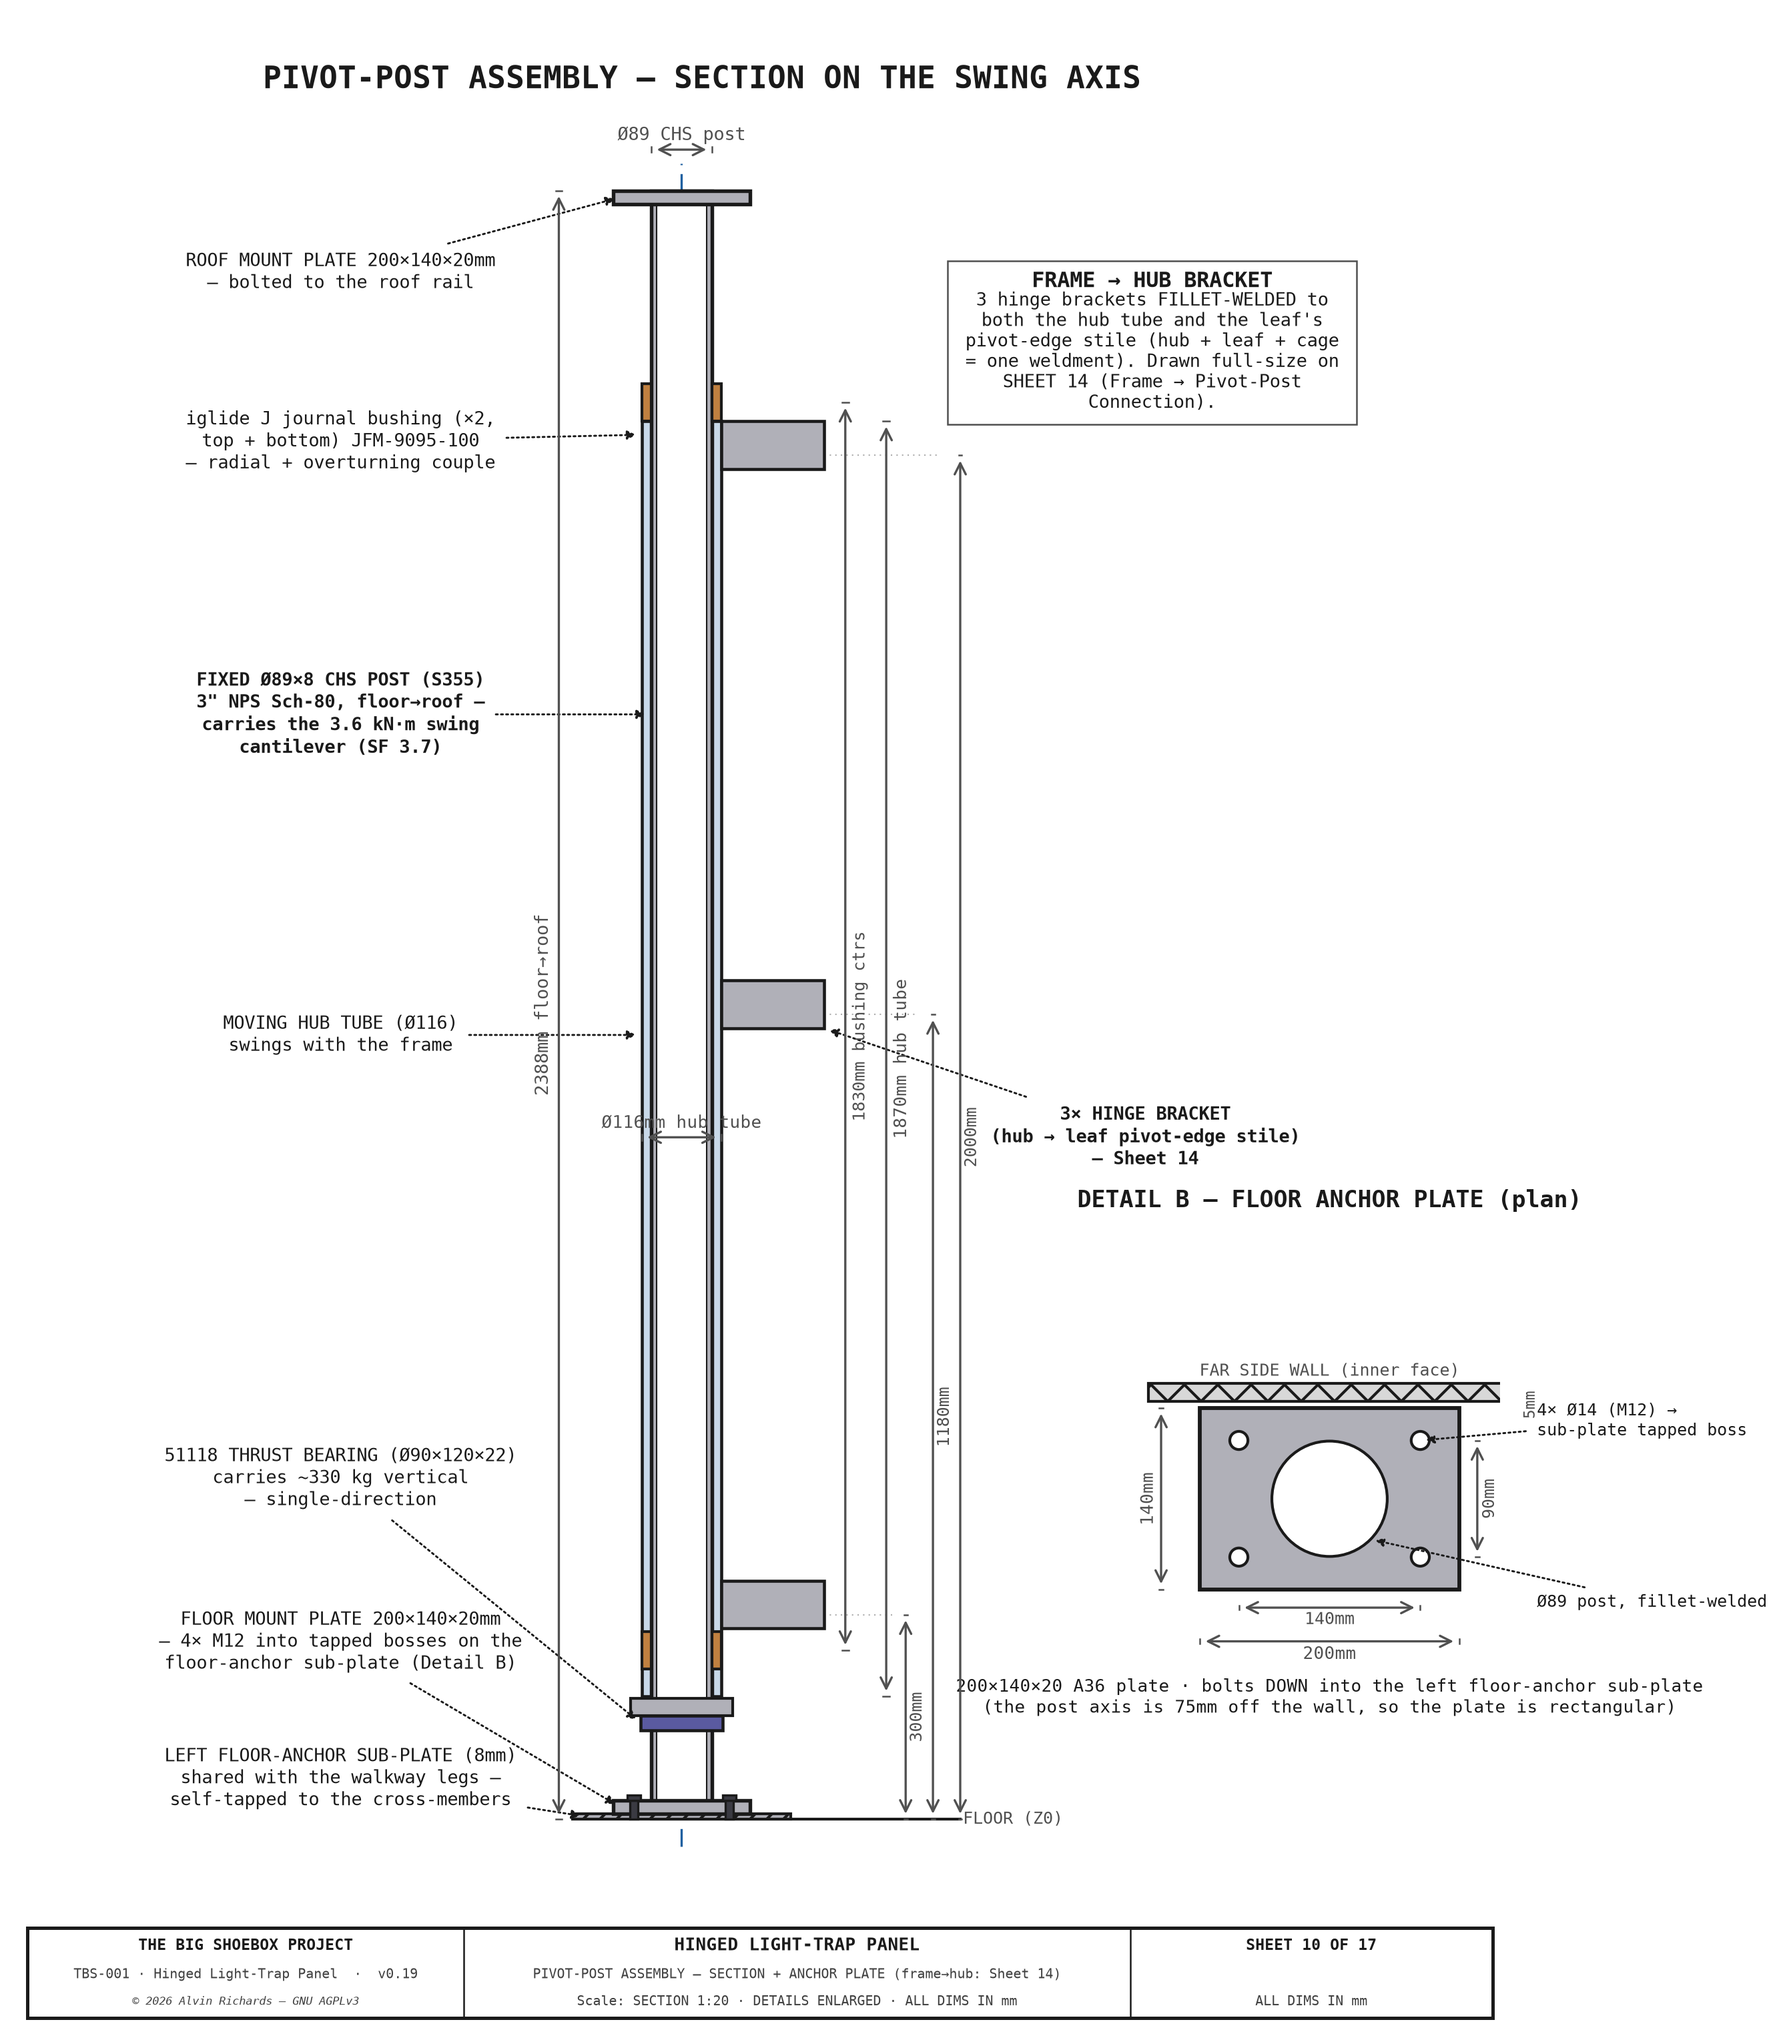
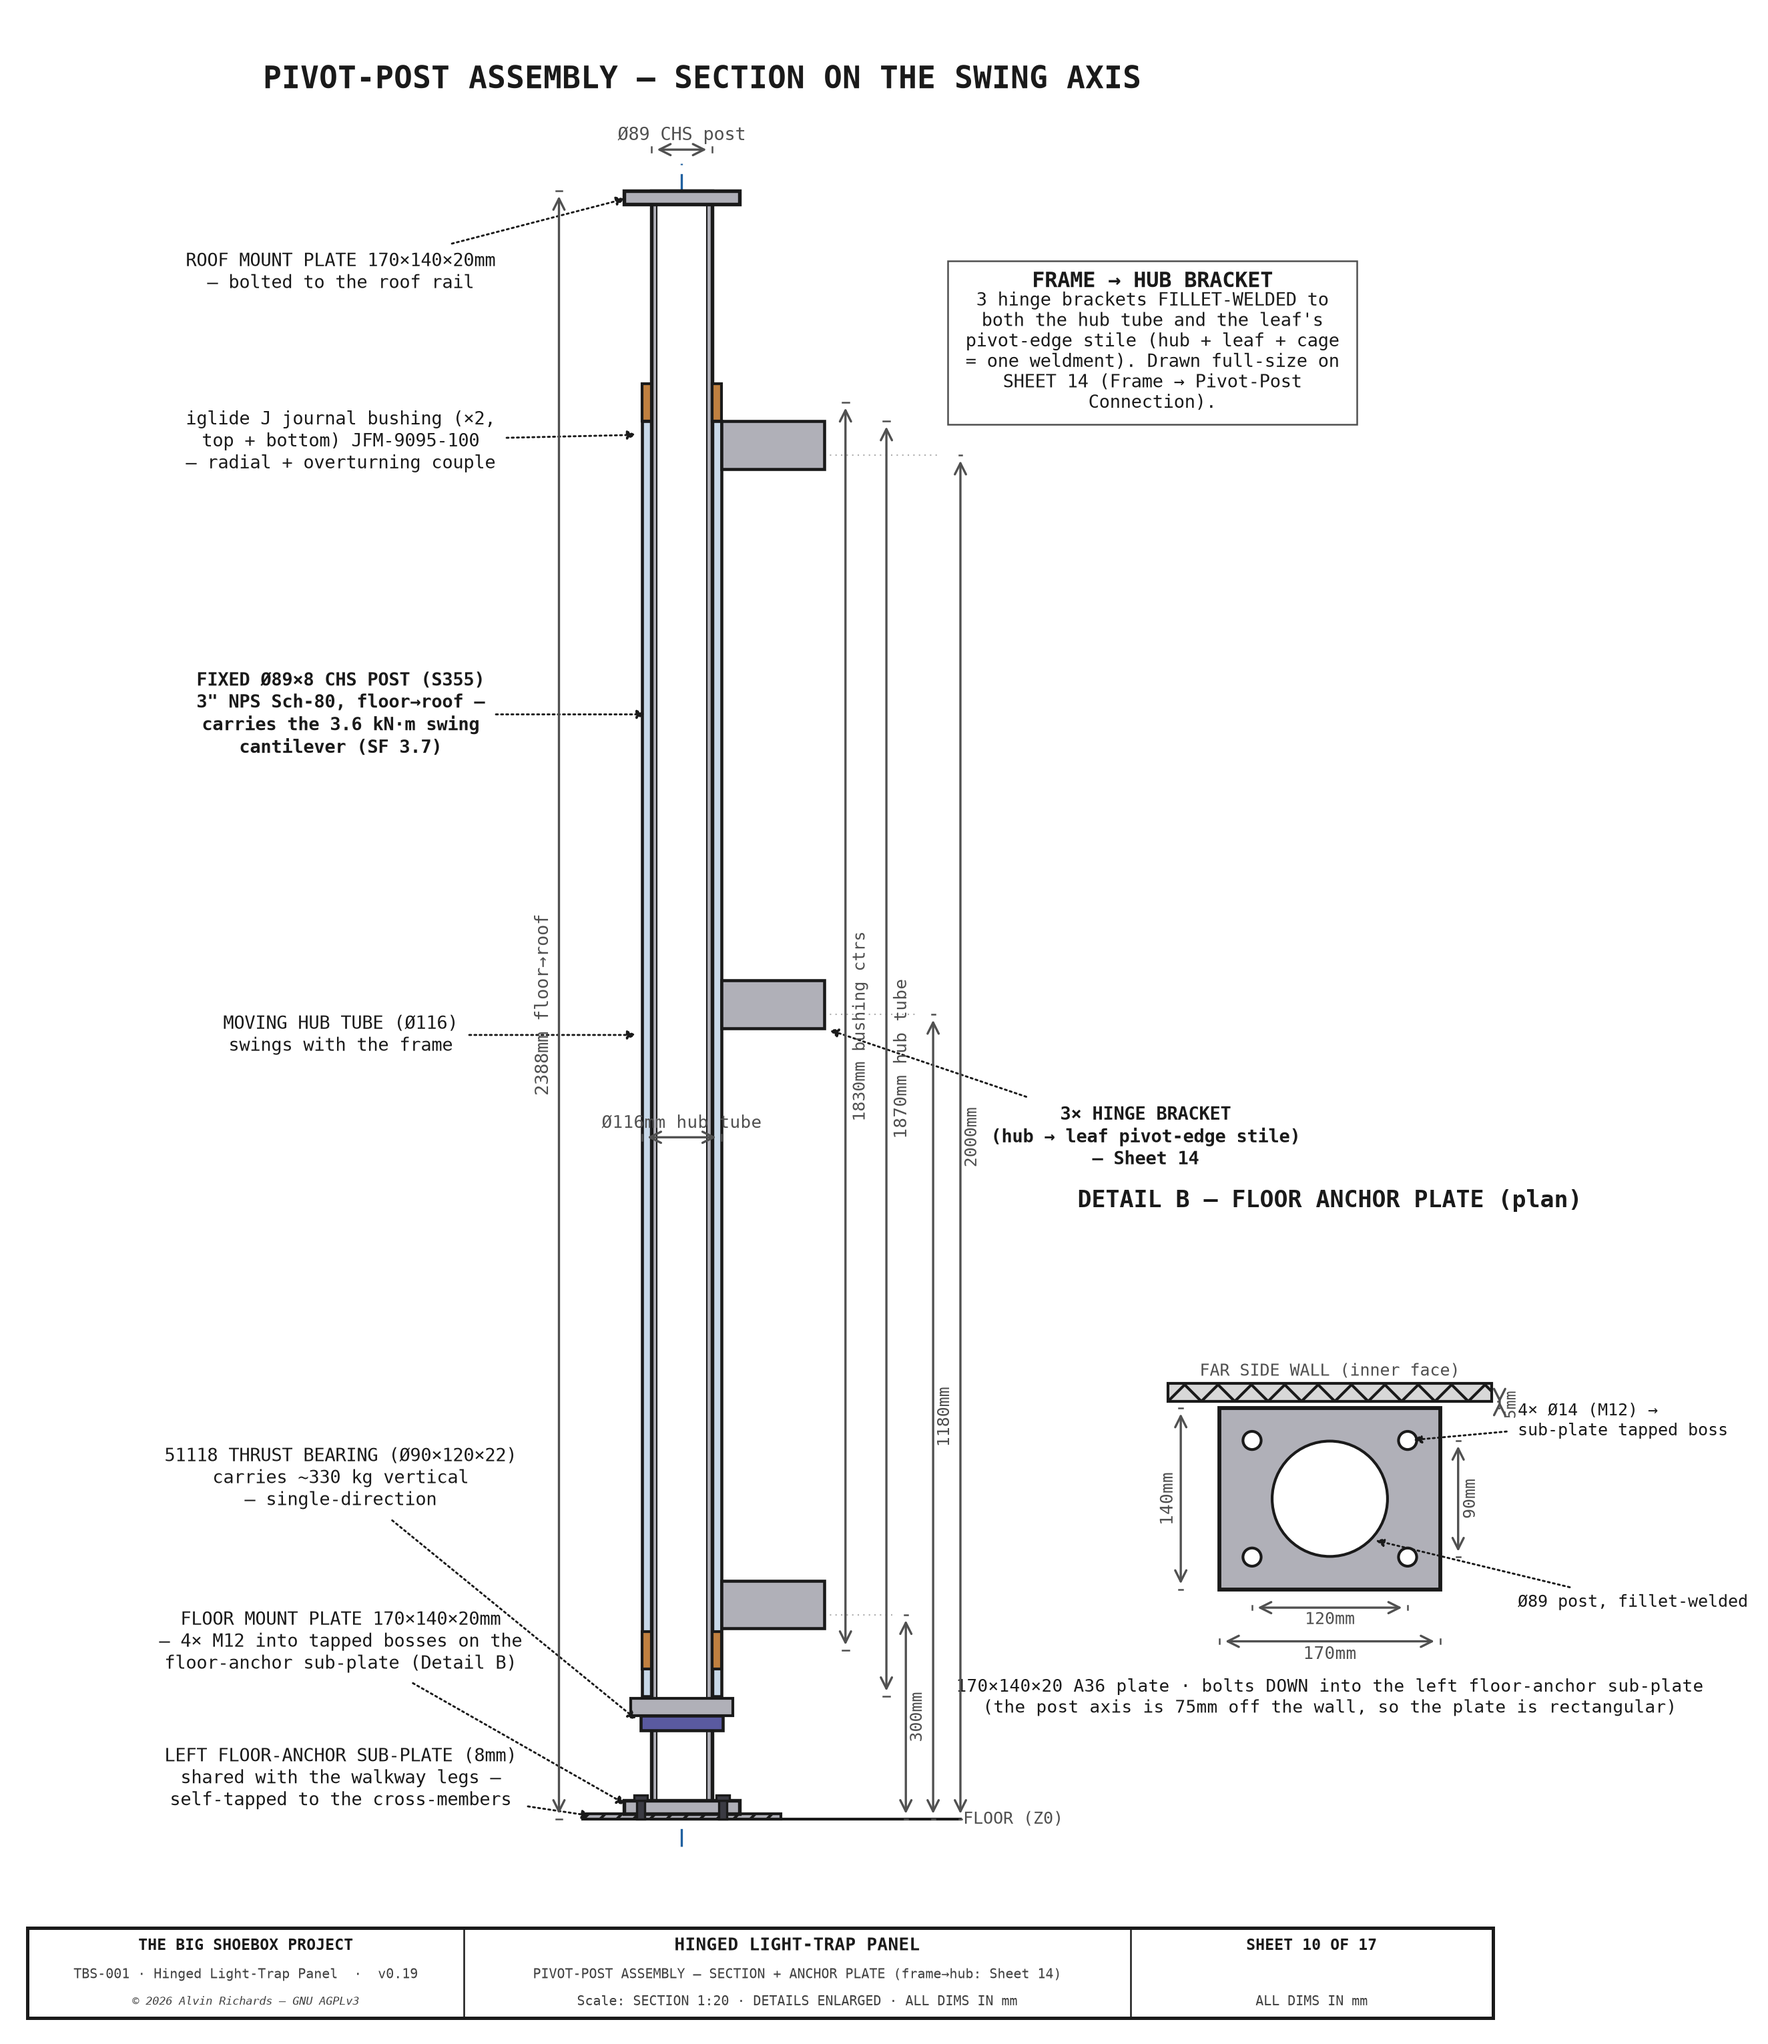
Pivot mount plates 200→170mm in X (bolts ±60), 20mm off the tray; clash checker's tray box from PROC_TRAY_* (was the stale X170)

diff --git a/src/models/check_interference.py b/src/models/check_interference.py
@@ -37,6 +37,8 @@ import sys, os, json
 from collections import defaultdict
 sys.path.insert(0, os.path.dirname(os.path.abspath(__file__)))
 from sketchup_client import send_ruby
+sys.path.insert(0, os.path.join(os.path.dirname(os.path.abspath(__file__)), '..', 'generators'))
+from tbs_constants import PROC_TRAY_X_L, PROC_TRAY_X_R, PROC_TRAY_YD_NEAR, PROC_TRAY_YD_FAR
 
 # Pipe-on-pipe crossings whose midpoint is above this Z are in the ceiling cable-trunk band — conductors
 # bundled in the 40x25 PVC trunk share the channel by design, so they're a bundle, not a collision.
@@ -790,7 +792,7 @@ def main():
     # (The real basin is open geometry, so enforce the footprint with a synthetic box.)  Only the
     # sump drain — which connects to the sump — is allowed (key "sump").
     solids.append({"n": "PROCESSING TRAY (exclusion zone)", "p": "synthetic", "cat": "tray", "key": "sump",
-                   "mn": [170, 80, 0], "mx": [4629, 2280, 130]})
+                   "mn": [PROC_TRAY_X_L, PROC_TRAY_YD_NEAR, 0], "mx": [PROC_TRAY_X_R, PROC_TRAY_YD_FAR, 130]})
 
     # SANCTIONED Rule 5a exception: the four corridor↔pinhole-wall lines run as a flat RIBBON in the
     # dead space UNDER the right-walkway grate (over the tray's outer margin, below the grate), by

diff --git a/src/generators/tbs_constants.py b/src/generators/tbs_constants.py
@@ -1379,10 +1379,10 @@ LEFT_SUBPLATE_YD0 = min(LEFT_WK_CANT_LEG_YDS) - LEFT_WK_CANT_FOOT[1] // 2 - 30  
 LEFT_SUBPLATE_YD1 = C_WID - FLOOR_SUBPLATE_WALL_GAP                                  # 2357
 # Pivot-post floor/roof mount plates: rectangular, since the post axis is only 75mm off the far wall
 # (a round plate would run into it) and the floor plate must stay off the tray (X ≤ PROC_TRAY_X_L).
-PIVOT_PLATE_W  = 200    # X (mm)
+PIVOT_PLATE_W  = 170    # X (mm) — 2026-11-24: 200→170 so the tray-side edge sits 20mm off the tray (was 5mm)
 PIVOT_PLATE_D  = 140    # Yd (mm) — wall-side edge at PIVOT_YD + 70 = 2357
 PIVOT_PLATE_T  = 20
-PIVOT_PLATE_BOLT_DX = 70   # 4× M12 at ±70 X / ±45 Yd (140×90 pattern; edge 30 / 25mm)
+PIVOT_PLATE_BOLT_DX = 60   # 4× M12 at ±60 X / ±45 Yd (120×90 pattern; edge 25 / 25mm); head clears the Ø89 post by ~5mm
 PIVOT_PLATE_BOLT_DY = 45
 PIVOT_BUSH_Z   = (220, 2050)   # bottom / top iglide journal-bushing Z (mm) — the hub's overturning couple
 assert PIVOT_YD + PIVOT_PLATE_D / 2 <= C_WID - FLOOR_SUBPLATE_WALL_GAP

diff --git a/RELEASE.md b/RELEASE.md
@@ -26,6 +26,7 @@ is no separate publish step to run afterward.
 
 ## [Unreleased]
 
+- **Pivot-post mount plates narrowed; clash checker fixed.** The pivot floor/roof plates go from 200 to 170mm in X (bolts ±70 → ±60mm), so the floor plate stands 20mm off the processing tray instead of 5mm; the bolt heads still clear the Ø89 post. The clash checker's tray keep-out box now comes from the tray constants — it still used the June tray edge (X170, now X280), which flagged the pivot-plate bolts falsely.
 - **IP65 enclosure resized and re-sourced.** The DC-distribution box is now a Gratury 290×190×140mm stainless IP65 box (Amazon B08282SQPT, $24.99), replacing the Polycase ZH-080804 (−$17 rounded, drops Polycase as a supplier). Its size and position are one setting (`IP65_ENCL_*`), used by the electrical model and the EP panel elevation (electrical sheet 5); it sits inside the plywood side lips, clear of the disconnect row and the MPPT. The metal box bonds to the main-panel ground.
 - **Tote connections match the 3D model.** Every tote connection is a 1in bulkhead through the tote wall; the totes' own outlet valves are unused and stay closed. Parts swap the 8 S60×6 valve adapters + reducers for 8 tote-wall bulkheads (−$5); the IBC stacking, plumbing and water-system reports, the dependency map, IBC frame sheet 1 and IBC stacking sheets 4–5 now say so; the manual checks the outlet valves are closed instead of operating them. Whether to switch to the totes' own fill cap and outlet valve is an open TODO.
 - **X1 fill takes a pressurized supply.** The Blue fill at X1 is now described as a pressurized supply hose rather than a gravity feed (water P&ID label, water-system, plumbing and IBC-stacking reports, CV-1 spec). The tote vents keep the totes at atmospheric pressure while they fill.

diff --git a/docs/hinged-panel-report.md b/docs/hinged-panel-report.md
@@ -470,7 +470,7 @@ doors by +<!-- BEGIN fact:swung_door_clearance_mm -->29<!-- END fact:swung_door_
 
 The whole movable assembly swings on a **fixed Ø89×8 CHS post** (3" NPS Sch-80, S355 —
 shared with the film plane's far-left rail ends), running floor→roof and **bolted at both ends**
-to 200 × 140 × 20mm mount plates. The post axis is only 75mm off the far wall, so the plates are
+to 170 × 140 × 20mm mount plates. The post axis is only 75mm off the far wall, so the plates are
 rectangular to stay clear of it. The floor plate bolts down with 4× M12 into tapped bosses on the
 **left floor-anchor sub-plate** — the same self-tapped strongback the five walkway legs use, run on
 to the far wall (§5.2 of the [Walkway Report](walkway-report.md#52-floor-anchoring-sub-plate-strongback)),

diff --git a/docs/component-dependency-map.md b/docs/component-dependency-map.md
@@ -340,7 +340,7 @@ Equipment in the IBC corridor is shadow-free.*
 | Swung door clearance | +<!-- BEGIN fact:swung_door_clearance_mm -->29<!-- END fact:swung_door_clearance_mm -->mm (bay front-right corner, to the closed-door inner face) | — |
 
 *Components: Ø89×8mm CHS pivot post on a thrust collar + top/bottom hub bearings (51118 thrust +
-2× Ø90 journal), 200×140×20 floor/roof mount plates (floor plate on the left floor-anchor sub-plate),
+2× Ø90 journal), 170×140×20 floor/roof mount plates (floor plate on the left floor-anchor sub-plate),
 drum support cage (2×2×0.120in steel SHS), top + bottom wall stays + 4-bolt wall anchor
 plates, 4× drop-in rail saddles + tapered dowels (for the removable left film rails).*
 
